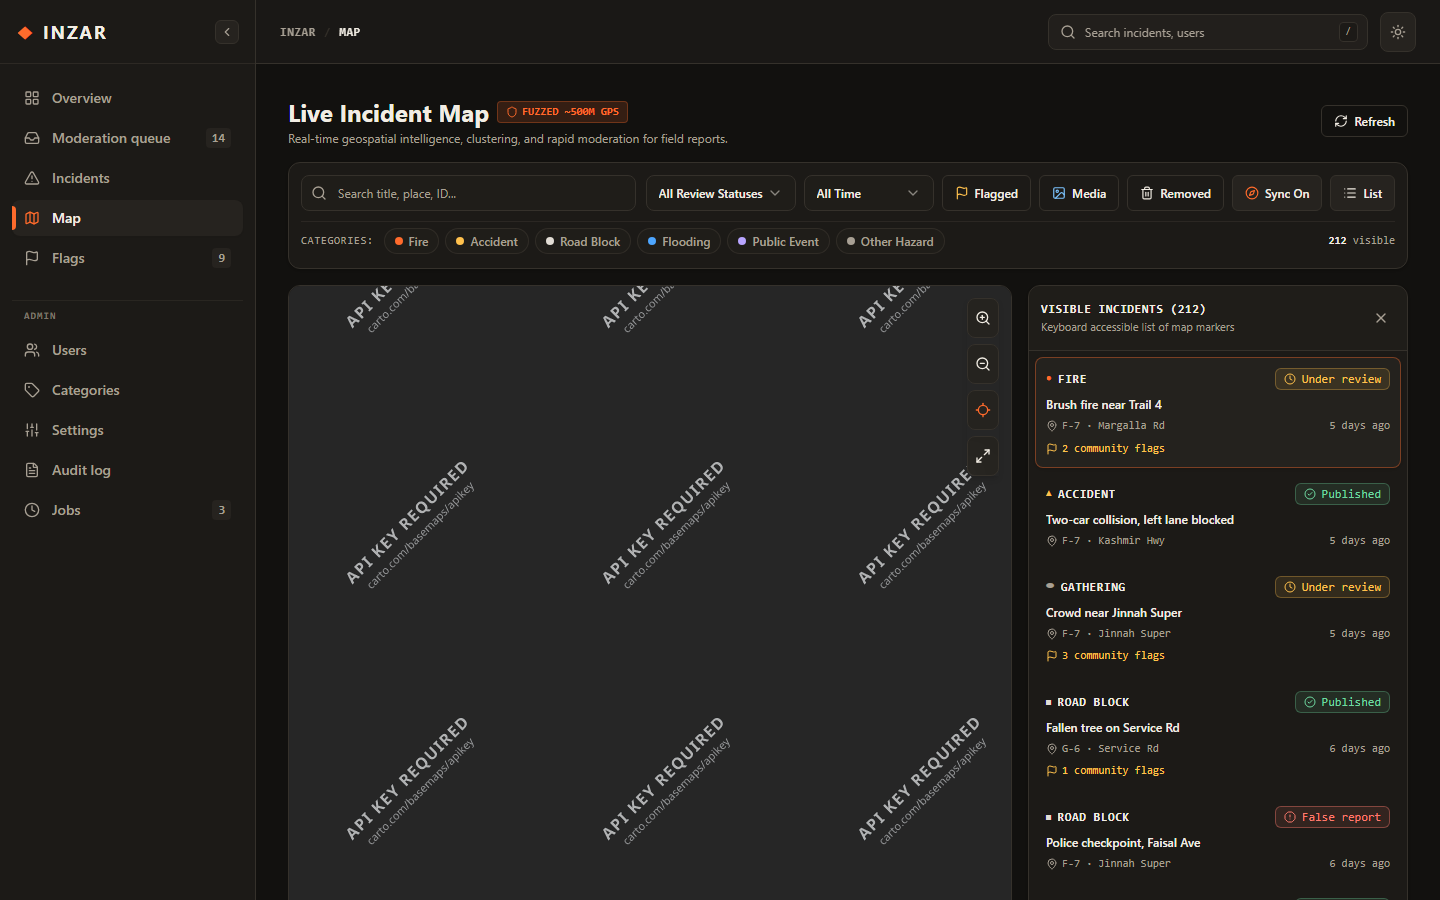
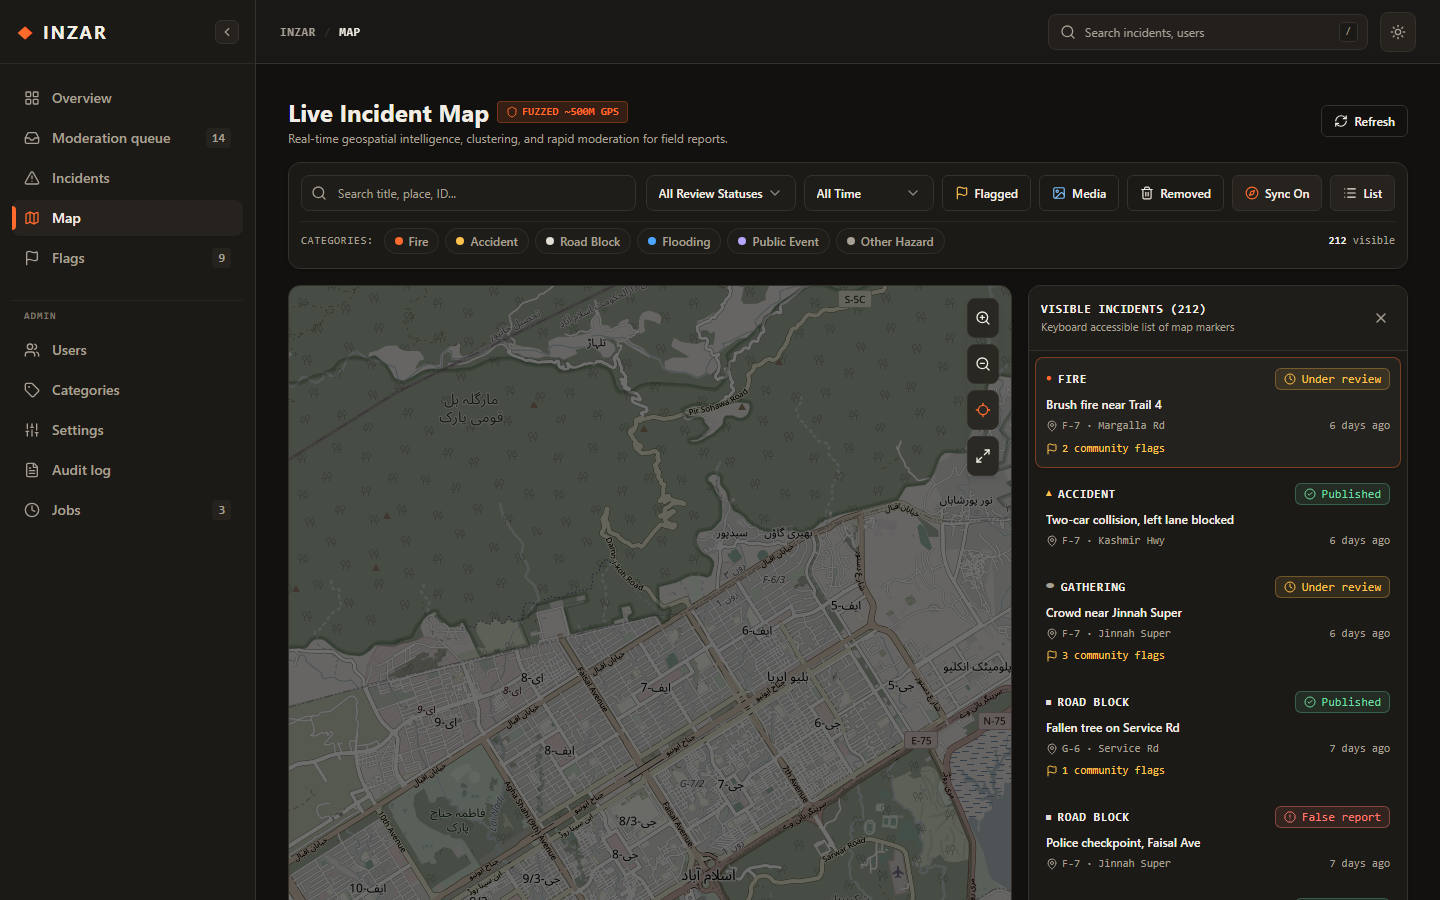
fix(map): switch basemap tiles to openstreetmap and update screenshots

diff --git a/src/features/map/lib/map-styles.ts b/src/features/map/lib/map-styles.ts
@@ -2,22 +2,23 @@ import type { StyleSpecification, Map as MapLibreMap } from 'maplibre-gl';
 import { CATEGORY_GLYPH_SVGS } from './map-constants';
 
 /**
- * Standard Inzar Warm Graphite dark style specification.
- * Falls back to dark graphite background (#12110F) if network tiles are unreachable.
+ * Standard Inzar Warm Graphite dark style specification using OpenStreetMap tiles.
+ * Uses raster dimming and desaturation paint properties to render a clean dark map without watermarks.
  */
 export const INZAR_DARK_STYLE: StyleSpecification = {
   version: 8,
-  name: 'Inzar Dark Warm Graphite',
+  name: 'Inzar Dark Warm Graphite (OpenStreetMap)',
   sources: {
-    carto_dark_tiles: {
+    osm_tiles: {
       type: 'raster',
       tiles: [
-        'https://a.basemaps.cartocdn.com/rastertiles/dark_all/{z}/{x}/{y}.png',
-        'https://b.basemaps.cartocdn.com/rastertiles/dark_all/{z}/{x}/{y}.png',
-        'https://c.basemaps.cartocdn.com/rastertiles/dark_all/{z}/{x}/{y}.png',
+        'https://a.tile.openstreetmap.org/{z}/{x}/{y}.png',
+        'https://b.tile.openstreetmap.org/{z}/{x}/{y}.png',
+        'https://c.tile.openstreetmap.org/{z}/{x}/{y}.png',
       ],
       tileSize: 256,
-      attribution: '&copy; OpenStreetMap contributors &copy; CARTO',
+      attribution:
+        '&copy; <a href="https://www.openstreetmap.org/copyright" target="_blank" rel="noopener noreferrer">OpenStreetMap</a> contributors',
     },
   },
   layers: [
@@ -29,31 +30,38 @@ export const INZAR_DARK_STYLE: StyleSpecification = {
       },
     },
     {
-      id: 'carto_dark_layer',
+      id: 'osm_dark_layer',
       type: 'raster',
-      source: 'carto_dark_tiles',
+      source: 'osm_tiles',
       minzoom: 0,
-      maxzoom: 20,
+      maxzoom: 19,
+      paint: {
+        'raster-opacity': 0.72,
+        'raster-brightness-max': 0.45,
+        'raster-contrast': 0.35,
+        'raster-saturation': -0.7,
+      },
     },
   ],
 };
 
 /**
- * Standard Inzar Warm Bone light style specification.
+ * Standard Inzar Warm Bone light style specification using OpenStreetMap tiles.
  */
 export const INZAR_LIGHT_STYLE: StyleSpecification = {
   version: 8,
-  name: 'Inzar Light Warm',
+  name: 'Inzar Light Warm (OpenStreetMap)',
   sources: {
-    carto_light_tiles: {
+    osm_tiles: {
       type: 'raster',
       tiles: [
-        'https://a.basemaps.cartocdn.com/rastertiles/light_all/{z}/{x}/{y}.png',
-        'https://b.basemaps.cartocdn.com/rastertiles/light_all/{z}/{x}/{y}.png',
-        'https://c.basemaps.cartocdn.com/rastertiles/light_all/{z}/{x}/{y}.png',
+        'https://a.tile.openstreetmap.org/{z}/{x}/{y}.png',
+        'https://b.tile.openstreetmap.org/{z}/{x}/{y}.png',
+        'https://c.tile.openstreetmap.org/{z}/{x}/{y}.png',
       ],
       tileSize: 256,
-      attribution: '&copy; OpenStreetMap contributors &copy; CARTO',
+      attribution:
+        '&copy; <a href="https://www.openstreetmap.org/copyright" target="_blank" rel="noopener noreferrer">OpenStreetMap</a> contributors',
     },
   },
   layers: [
@@ -65,11 +73,14 @@ export const INZAR_LIGHT_STYLE: StyleSpecification = {
       },
     },
     {
-      id: 'carto_light_layer',
+      id: 'osm_light_layer',
       type: 'raster',
-      source: 'carto_light_tiles',
+      source: 'osm_tiles',
       minzoom: 0,
-      maxzoom: 20,
+      maxzoom: 19,
+      paint: {
+        'raster-opacity': 0.95,
+      },
     },
   ],
 };

diff --git a/e2e/map-view.spec.ts b/e2e/map-view.spec.ts
@@ -14,6 +14,7 @@ test.describe('Phase 5: Map View and Geographic Intelligence', () => {
   test('renders map view, passes accessibility scan, and captures responsive screenshots', async ({
     page,
   }) => {
+    test.setTimeout(60000);
     await loginAsAdmin(page);
 
     await page.goto('/map');
